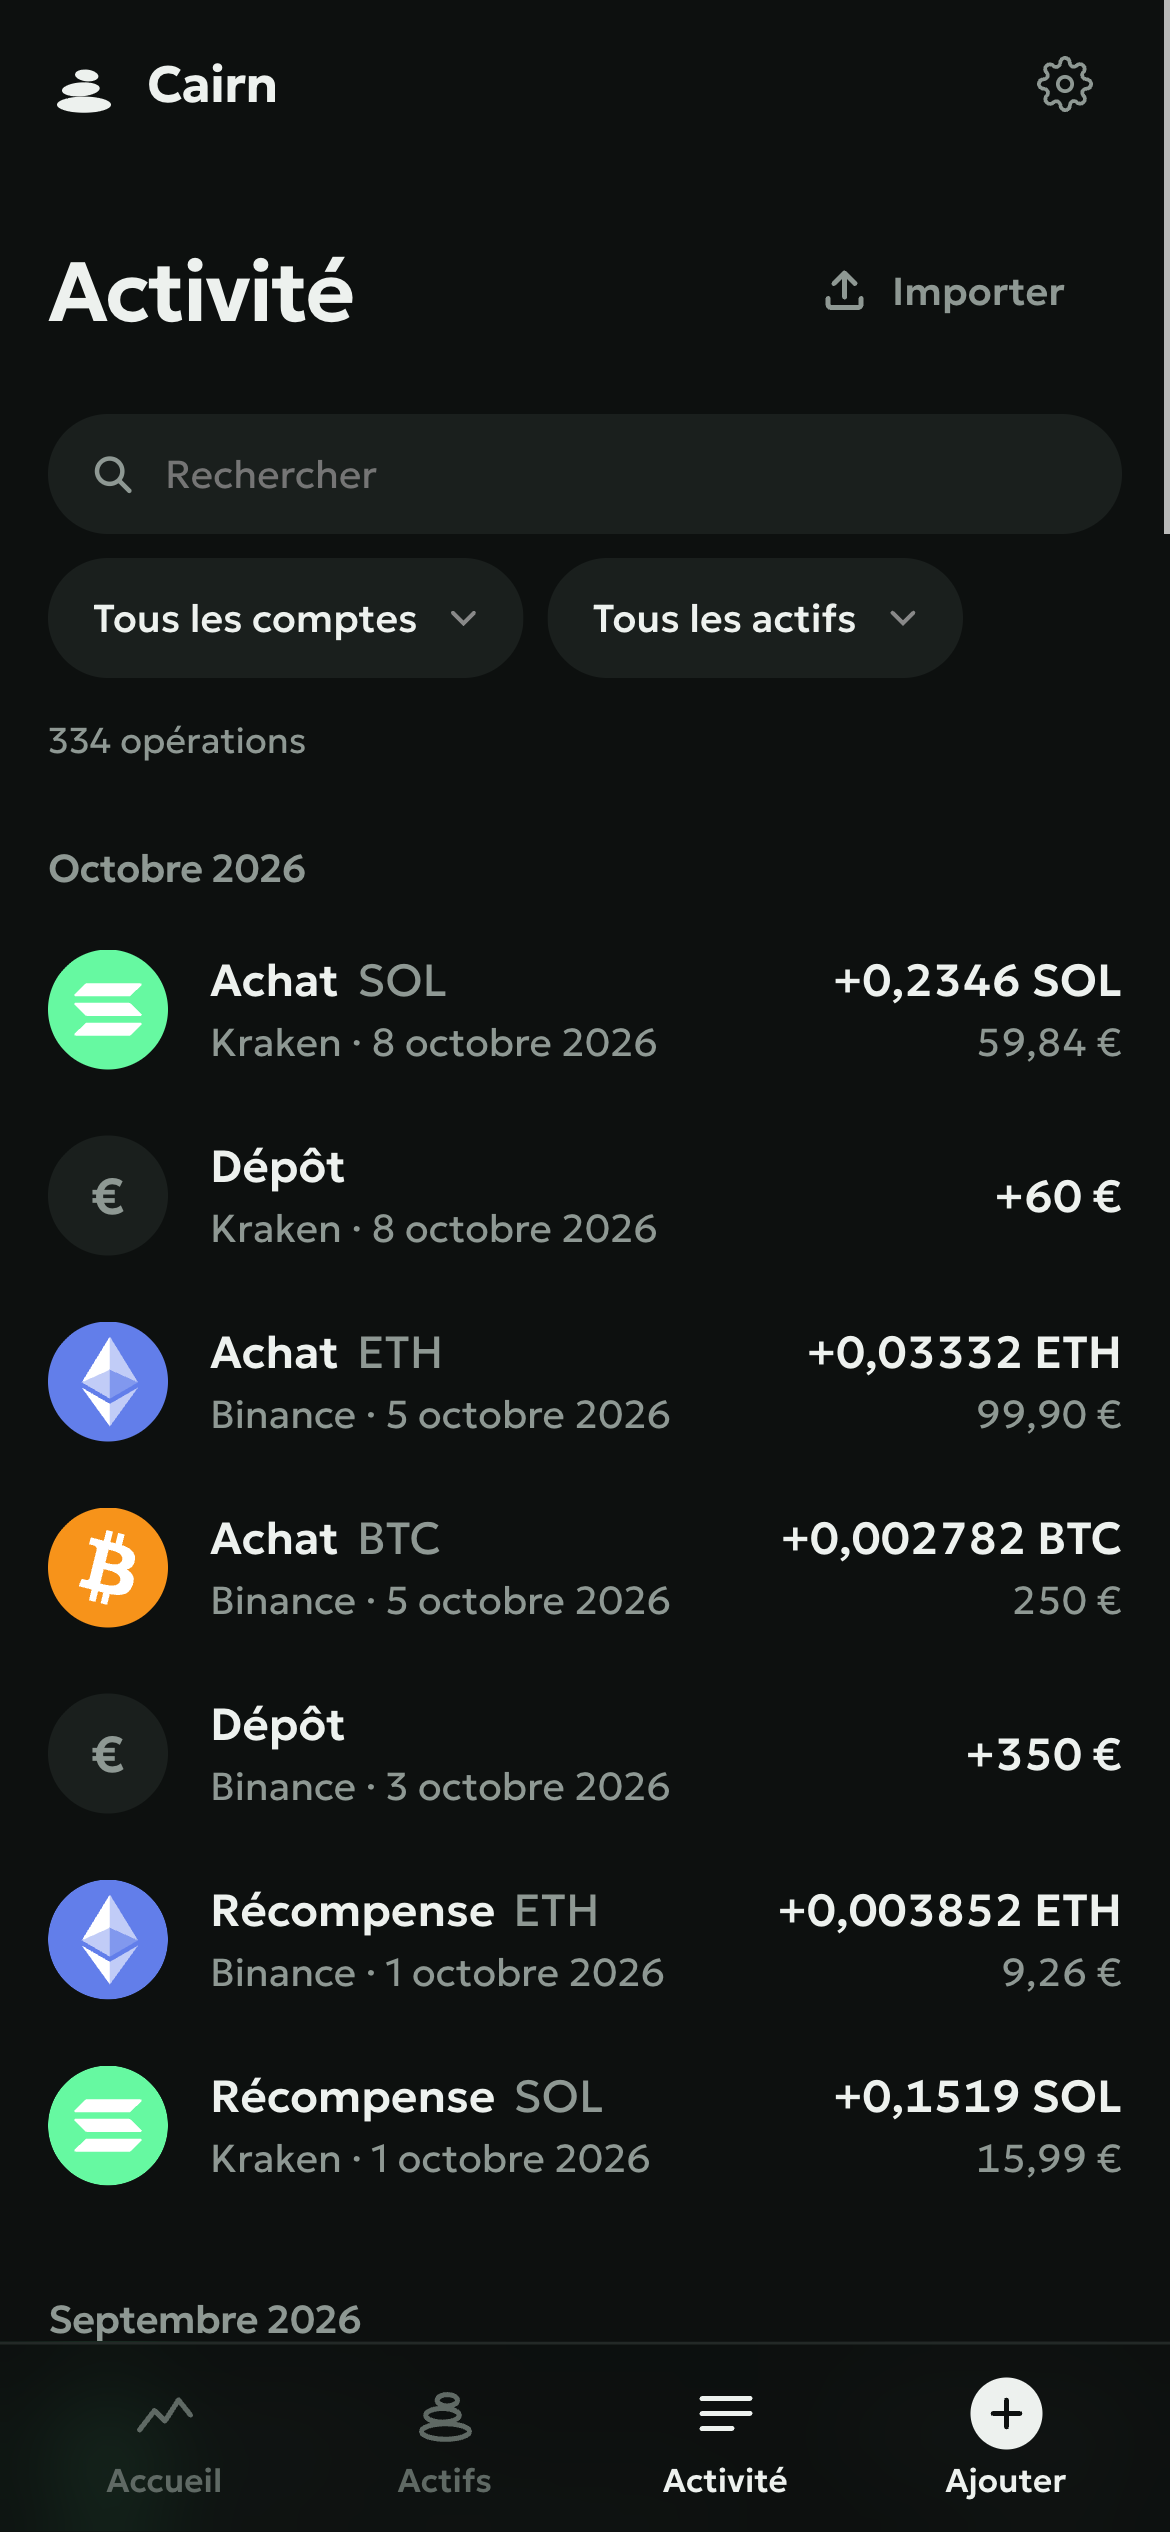
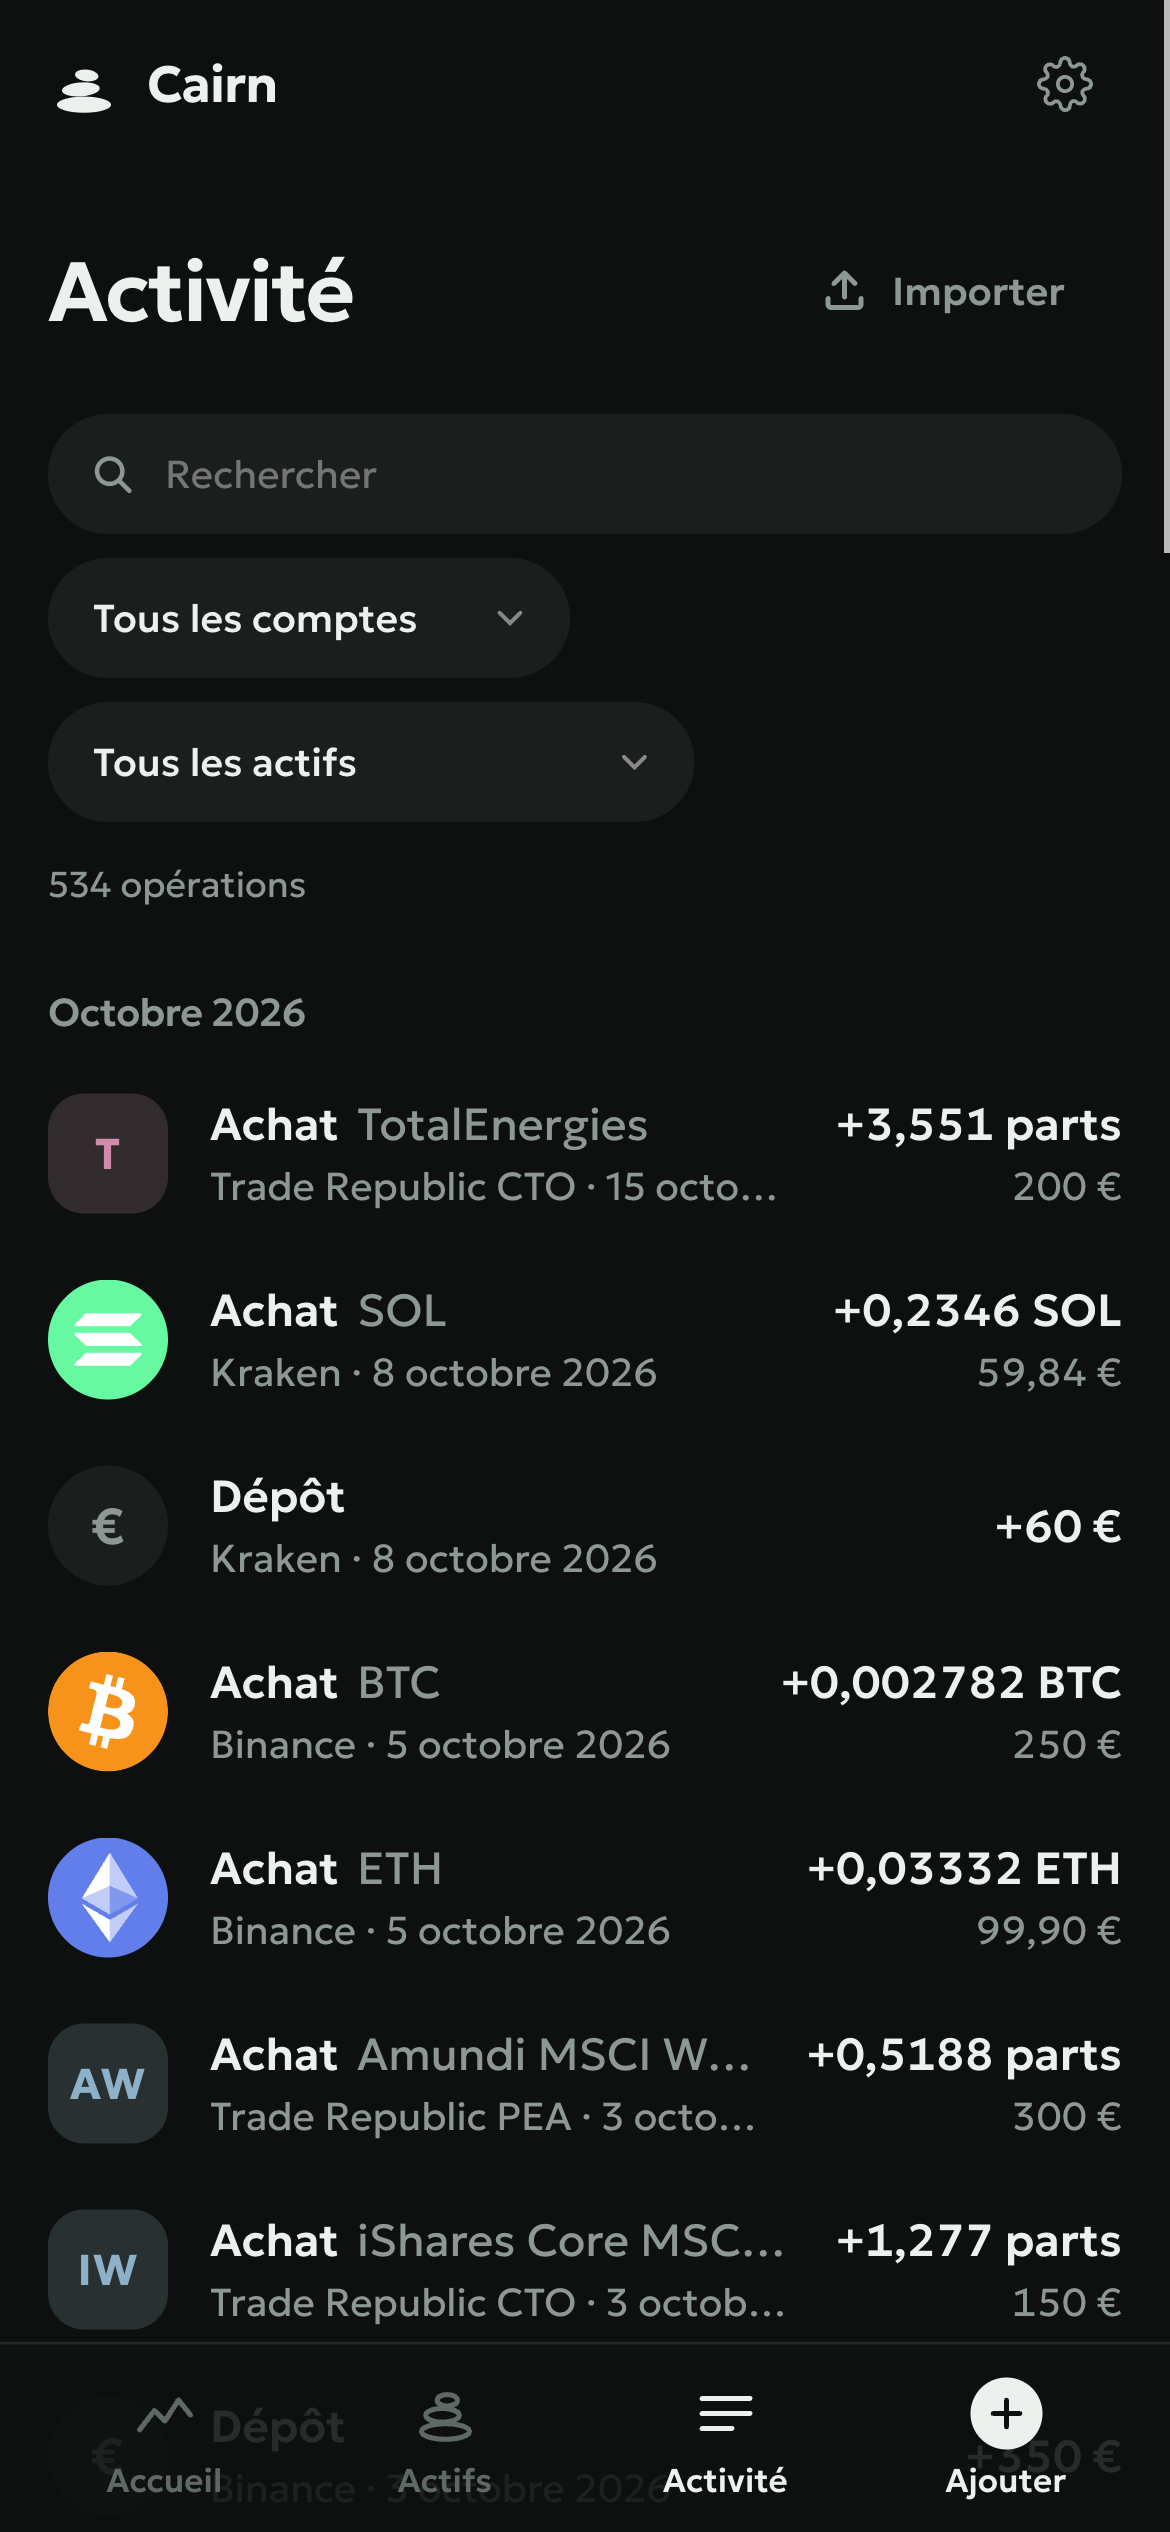
README et captures refaites sur la démo de Fundarr v0.2.0 (Trade Republic, ETF, dividendes)

diff --git a/README.md b/README.md
@@ -1,16 +1,18 @@
 # Cairn
 
-Where my crypto stands: what it is worth, what I put in, what it became, and how. A small, opinionated personal app, crypto only for now: you give it your operations, it does the rest.
+Where my investments stand, crypto, stocks and ETFs: what they are worth, what I put in, what they became, and how. A small, opinionated personal app: you give it your operations, it does the rest.
 
 ![Accueil](docs/screenshots/accueil-clair.png)
 
-- **Accueil**: the value and its change over 7J, 1M, YTD, 1A or Tout, in euros and as a share of what was at stake (the opening value plus money put in since); a chart to scrub with a finger (value against money put in, or performance time-weighted so deposits are not gains); gain, yearly return (money-weighted), net contributions, rewards, fees; each coin with its month; allocation by coin or account, stablecoins apart.
-- **Statistiques** (on Accueil): monthly returns year by year, money put in each month, cumulative rewards, what came from contributions, rewards and the market, gain by coin.
-- **Actifs**: every coin, held or sold. One page each: its price with my average cost and my buys and sales, the quantity held, unrealized and realized gain, rewards, fees, its operations.
-- **Activité**: every operation by month, by account or coin, searchable. Add, change or remove those entered by hand or imported.
-- **Impôts** (a card on Accueil when a declaration has something, and in the footer): one year of disposals as 2086 lines, totals, estimated tax, a CSV to copy into the form.
+- **Accueil**: the value and its change over 7J, 1M, YTD, 1A or Tout, in euros and as a share of what was at stake (the opening value plus money put in since); a chart to scrub with a finger (value against money put in, or performance time-weighted so deposits are not gains); gain, yearly return (money-weighted), net contributions, income (staking, dividends, interest), fees; each asset with its month; allocation by asset, by class (crypto, ETF, stocks, stablecoins) or by account.
+- **Statistiques** (on Accueil): monthly returns year by year, money put in each month, cumulative income, what came from contributions, income and the market, gain by asset.
+- **Actifs**: every coin, stock and ETF, held or sold, by name (a security's ISIN is a detail on its page). One page each: its price with my average cost and my buys and sales, the quantity held, unrealized and realized gain, rewards or dividends, fees, its operations.
+- **Activité**: every operation by month, by account or asset, searchable by name. Add, change or remove those entered by hand or imported.
+- **Impôts** (a card on Accueil when a declaration has something, and in the footer): one year of crypto disposals as 2086 lines, totals, estimated tax, a CSV to copy into the form. Stocks and ETFs are left out.
 
-One Go binary serves the UI, keeps everything in SQLite (`/data/cairn.db`) and computes the portfolio itself, with [Fundarr](https://github.com/Alexis-Marcel/fundarr)'s engine as a library (average cost per account, transfers carrying their cost, the 2086 method). Daily prices come from Binance and OKX public market data and the ECB's rates (through Frankfurter): no key, no account, each day asked once and kept.
+**How the figures count.** Cash is not part of the value: euros sitting on an account (Trade Republic's, an exchange's) are outside the portfolio, so a bank transfer in, a card payment or a cash withdrawal changes nothing; money counts as put in when it buys something and as taken out when a sale brings it back. Dividends, net of the tax withheld, come back out the same way, so they are part of the gain, the yearly return and the time-weighted performance. Interest on cash is income too, shown with the rest, but outside the gain (the cash that earns it is not in the value). A broker's accounts from Fundarr stay apart (Trade Republic CTO and PEA).
+
+One Go binary serves the UI, keeps everything in SQLite (`/data/cairn.db`) and computes the portfolio itself, with [Fundarr](https://github.com/Alexis-Marcel/fundarr)'s engine as a library (average cost per account, transfers carrying their cost, the 2086 method). Daily prices come from Binance and OKX public market data for crypto, justETF (Yahoo Finance as a fallback) for stocks and ETFs by ISIN, and the ECB's rates (through Frankfurter): no key, no account, each day asked once and kept. A security no source knows is valued at its last trade.
 
 **Cairn has no sign-in of its own.** Keep it on localhost, or put it behind a reverse proxy that signs you in (Authentik, Authelia, oauth2-proxy…). Never straight on the internet: whoever opens it sees and edits the portfolio.
 
@@ -26,7 +28,7 @@ or see [`compose.yaml`](compose.yaml), then open http://localhost:8080. With a b
 
 Cairn opens on an empty Accueil that offers all three; they mix freely.
 
-1. **By hand**: Ajouter. Achat, vente, échange, dépôt, retrait, récompense, transfert entre comptes, frais. A date, an account (or a new one), a coin, a quantity; the price of a purchase or a sale is filled in from the day's close.
+1. **By hand**: Ajouter. Achat, vente, échange, dépôt, retrait, récompense, dividende, transfert entre comptes, frais. A date, an account (or a new one), a coin or a stock or ETF (by name, or by its ISIN, checked, with its name the first time), a quantity; the price of a purchase or a sale is filled in from the day's close.
 2. **A CSV file**: Activité → Importer. Each row is checked and shown before anything is added; importing the same file again adds nothing.
 3. **Fundarr** (optional): Réglages → Synchroniser avec Fundarr. Cairn keeps a copy of Fundarr's history through its [changes feed](https://github.com/Alexis-Marcel/fundarr/blob/main/docs/api.md#get-apiv1changes), every 15 minutes, one account per Fundarr source. Those operations are read-only in Cairn: change them in Fundarr.
 
@@ -47,18 +49,21 @@ Or Cairn's template, served at `/api/import/modele.csv` (Importer → Téléchar
 | Column | |
 |---|---|
 | `date` | `2024-03-01`, `01/03/2024` or an RFC 3339 time |
-| `type` | `achat`, `vente`, `echange`, `depot`, `retrait`, `recompense`, `frais` (or `buy`, `sell`, `swap`, `deposit`, `withdrawal`, `reward`, `fee`) |
+| `type` | `achat`, `vente`, `echange`, `depot`, `retrait`, `recompense`, `dividende`, `interets`, `frais` (or `buy`, `sell`, `swap`, `deposit`, `withdrawal`, `reward`, `dividend`, `interest`, `fee`) |
 | `actif`, `quantite` | `BTC`, `0,01` (`EUR` for cash deposits and withdrawals) |
-| `prix` | `achat`, `vente`: the total in euros |
+| `isin`, `nom` | a stock or an ETF: `IE00B4L5Y983`, `iShares Core MSCI World` (the ISIN may also go in `actif`) |
+| `prix` | `achat`, `vente`: the total in euros; `dividende`: the amount received |
 | `frais` | in euros, optional |
 | `recu`, `quantite_recue` | `echange`: the coin received and how much |
 | `compte`, `note` | optional; without `compte`, pick one account for the whole file |
 
 ```csv
-date,type,actif,quantite,prix,frais,recu,quantite_recue,compte,note
-2024-03-01,achat,BTC,0.01,550,1.5,,,Binance,
-2024-05-10,echange,BTC,0.005,,,ETH,0.08,Binance,
-2024-06-15,recompense,ETH,0.002,,,,,Binance,staking
+date,type,actif,quantite,prix,frais,recu,quantite_recue,compte,note,isin,nom
+2024-03-01,achat,BTC,0.01,550,1.5,,,Binance,,,
+2024-05-10,echange,BTC,0.005,,,ETH,0.08,Binance,,,
+2024-06-15,recompense,ETH,0.002,,,,,Binance,staking,,
+2024-07-01,achat,,3,300,1,,,Trade Republic,,IE00B4L5Y983,iShares Core MSCI World
+2024-12-10,dividende,,,4.2,,,,Trade Republic,,FR0000120271,TotalEnergies
 ```
 
 ## Settings
@@ -76,7 +81,7 @@ date,type,actif,quantite,prix,frais,recu,quantite_recue,compte,note
 
 ## Develop
 
-Go 1.26 and Node 24. Fundarr's demo gives a made-up portfolio (2023 to today, three sources, rewards, transfers, sales) to sync from; run it from a Fundarr clone:
+Go 1.26 and Node 24. Fundarr's demo gives a made-up portfolio (2023 to today: three crypto sources with rewards, transfers and sales, and Trade Republic with ETFs on a CTO and a PEA, a stock and its dividends) to sync from; run it from a Fundarr clone (v0.2.0 or later):
 
 ```sh
 FUNDARR_DEMO=1 FUNDARR_ADDR=127.0.0.1:9599 go run ./cmd/fundarr   # in fundarr/, token fdr_demo
